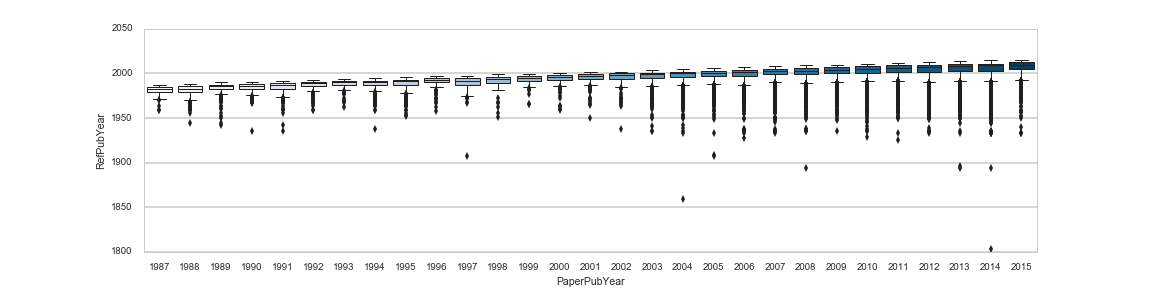
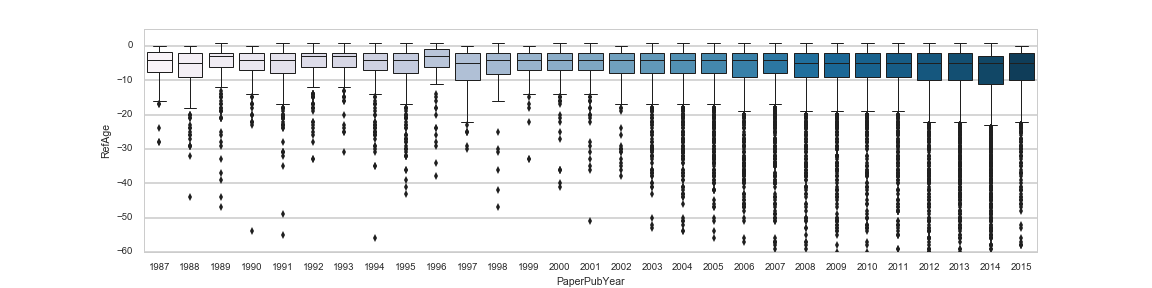
modify detailed post, added mini legends

diff --git a/content/citation/ICML.md b/content/citation/ICML.md
@@ -1,7 +1,7 @@
 ---
-title: "ICML - International Conference on Machine Learning (1987 - 2015)"
+title: "ICML - International Conference on Machine Learning (1987-2015)"
 description: "Citation pattern stats and plots for this conference."
-date: "2016-06-17 11:50:09.072500"
+date: "2016-07-14 21:18:51.156710"
 categories:
   - "data"
   - "visualization"
@@ -11,7 +11,9 @@ tags:
   - "graph"
 ---
 
-<img style="float:left;" src="/img/citation/ICML/ICML_mini_graph.png" height="160" hspace="15" vspace="10" alt="ICML: summary of top 37 venues">
+<div style="float:left; position: relative; width:320px; height:200px">  <a href=#fig4><img style="float:left;" src="/img/citation/ICML/ICML_mini_graph.png" width="320" style="position: relative; top: 0; left: 0;" alt="ICML: summary of top 37 venues"></a>
+  <img src="/img/citation/mini_bar.png" style="position: absolute; top: 160px; left: 30px;"/>
+</div>
 ### Stats:
 
 * 29 years of publication 1987--2015, 4082 papers total
@@ -22,41 +24,43 @@ tags:
  
 
 
-The half-wheel on the left is a snapshot of the top venues that cites and cited by this venue (details in Figure 4 below).
+This is a detail page for one conferenece, go here for [an overview of citation patterns](/post/citation_vis). 
 
-The plots on the rest of this page roughly breaks down into three types. 
+The half-wheel on the left is a snapshot of the top venues that cites and cited by this venue (details in Figure 4 below). The plots on the rest of this page roughly breaks down into four types. 
 
 * Figure 1 - Figure 3 contains basic stats of papers, references and citations over its lifetime. 
 * Figure 4 and 5 summarizes the incoming and outgoing citations over all years, sorted by the ratio of incoming over outgoing citations (left to right).
 * Figure 5 and 6 breaks down the incoming and outgoing citations by year of the conference paper. 
 * Figure 7 and 8 breaks down the outgoing references by the year they were cited in this conference. For most conferences we can see a 'google scholar' effect that more older papers gets cited in recent years, likely due to the ease of finding them. 
+
+**Note**: This page visualizes reference and citation patterns of one conference, generated from templates. For a written overview of the visualization series, and background about problem, motivation and methods please see the [overview page](/post/citation_vis). 
 ### Plots of citation data
-<a href=/img/citation/ICML/ICML_cnt_paper.png><img width=900 src="/img/citation/ICML/ICML_cnt_paper.png"></a>
+<a id=fig1 href=/img/citation/ICML/ICML_cnt_paper.png><img width=900 src="/img/citation/ICML/ICML_cnt_paper.png"></a>
 Fig 1. Overall paper stats. (left) number of papers published in each year; (right) the average number of references made and the average number of citations received for papers published in each year.
 
-<a href=/img/citation/ICML/ICML_cnt_ref.png><img width=900 src="/img/citation/ICML/ICML_cnt_ref.png"></a>
+<a id=fig2 href=/img/citation/ICML/ICML_cnt_ref.png><img width=900 src="/img/citation/ICML/ICML_cnt_ref.png"></a>
 Fig 2. Overall reference stats. (left) the number of total references made by papers published in each year, broken down by known and unkonwn venues; (right) the number of distinct venues referenced by papers published in each year.
 
-<a href=/img/citation/ICML/ICML_cnt_citation.png><img width=900 src="/img/citation/ICML/ICML_cnt_citation.png"></a>
+<a id=fig3 href=/img/citation/ICML/ICML_cnt_citation.png><img width=900 src="/img/citation/ICML/ICML_cnt_citation.png"></a>
 Fig 3. Overall citation stats. (left) the number of total references made by papers published in each year, broken down by known and unkonwn venues; (right) the number of distinct venues referenced by papers published in each year.
 
-<a href=/img/citation/ICML/ICML_graph.png><img width=900 src="/img/citation/ICML/ICML_graph.png"></a>
+<a id=fig4 href=/img/citation/ICML/ICML_graph.png><img width=900 src="/img/citation/ICML/ICML_graph.png"></a>
 <img align=center width=675 src="/img/citation/color_bar.png">
 
 Fig 4. Summary of incoming vs outgoing citations to the top-K venues. Node colors: ratio of citations (outgoing ideas, red) vs references (incoming ideas, blue). Node sizes: amount of total citation+references in either direction. Thickness of blue edges are scaled by the number of references going to a given venue; thickness of red edges are scaled by the number of citations coming from a given venue. Nodes are sorted left-to-right by the ratio of incoming vs outgoing citations to this conference.
 
-<a href=/img/citation/ICML/ICML_venue_bar.png><img width=900 src="/img/citation/ICML/ICML_venue_bar.png"></a>
+<a id=fig5 href=/img/citation/ICML/ICML_venue_bar.png><img width=900 src="/img/citation/ICML/ICML_venue_bar.png"></a>
 Fig 5. Incoming vs outgoing citations to the top-K venues (this bar graph presents information from the half-circle differently). (blue) The number of references going to a given conference or journal; (red) The number of citations coming from a given conference or journal. The x-axis is sorted by the ratio of incoming vs outgoing citations to the conference, highest on the right.
 
-<a href=/img/citation/ICML/ICML_venue_ref.png><img width=900 src="/img/citation/ICML/ICML_venue_ref.png"></a>
+<a id=fig6 href=/img/citation/ICML/ICML_venue_ref.png><img width=900 src="/img/citation/ICML/ICML_venue_ref.png"></a>
 Fig 6. Heatmap of references over time, broken down by publication year (horizontal axis) and reference venue (vertical axis).
 
-<a href=/img/citation/ICML/ICML_venue_citation.png><img width=900 src="/img/citation/ICML/ICML_venue_citation.png"></a>
+<a id=fig7 href=/img/citation/ICML/ICML_venue_citation.png><img width=900 src="/img/citation/ICML/ICML_venue_citation.png"></a>
 Fig 7. Heatmap of citations over time, broken down by publication year (horizontal axis) and citing venue (vertical axis).
 
-<a href=/img/citation/ICML/ICML_box_ref.png><img width=900 src="/img/citation/ICML/ICML_box_ref.png"></a>
-Fig 8. Box plot of reference publication years, grouped by broken down by the year paper in this venue is published (x-axis).
+<a id=fig8 href=/img/citation/ICML/ICML_box_ref.png><img width=900 src="/img/citation/ICML/ICML_box_ref.png"></a>
+Fig 8. Box plot of reference age in years (y-axis, lower is older), broken down by the year paper in this venue is published (x-axis).
 
-<a href=/img/citation/ICML/ICML_year_ref.png><img width=900 src="/img/citation/ICML/ICML_year_ref.png"></a>
+<a id=fig9 href=/img/citation/ICML/ICML_year_ref.png><img width=900 src="/img/citation/ICML/ICML_year_ref.png"></a>
 Fig 9. Heatmap of references, broken down by the year paper in this venue is published (horizontal axis) and by the publication year of the reference (vertical axis).
 

diff --git a/content/citation/NIPS.md b/content/citation/NIPS.md
@@ -1,7 +1,7 @@
 ---
-title: "NIPS - Neural Information Processing Systems (1987 - 2015)"
+title: "NIPS - Neural Information Processing Systems (1987-2015)"
 description: "Citation pattern stats and plots for this conference."
-date: "2016-06-17 11:50:35.930236"
+date: "2016-07-14 21:17:42.704124"
 categories:
   - "data"
   - "visualization"
@@ -11,7 +11,9 @@ tags:
   - "graph"
 ---
 
-<img style="float:left;" src="/img/citation/NIPS/NIPS_mini_graph.png" height="160" hspace="15" vspace="10" alt="NIPS: summary of top 37 venues">
+<div style="float:left; position: relative; width:320px; height:200px">  <a href=#fig4><img style="float:left;" src="/img/citation/NIPS/NIPS_mini_graph.png" width="320" style="position: relative; top: 0; left: 0;" alt="NIPS: summary of top 37 venues"></a>
+  <img src="/img/citation/mini_bar.png" style="position: absolute; top: 160px; left: 30px;"/>
+</div>
 ### Stats:
 
 * 29 years of publication 1987--2015, 6483 papers total
@@ -22,41 +24,43 @@ tags:
  
 
 
-The half-wheel on the left is a snapshot of the top venues that cites and cited by this venue (details in Figure 4 below).
+This is a detail page for one conferenece, go here for [an overview of citation patterns](/post/citation_vis). 
 
-The plots on the rest of this page roughly breaks down into three types. 
+The half-wheel on the left is a snapshot of the top venues that cites and cited by this venue (details in Figure 4 below). The plots on the rest of this page roughly breaks down into four types. 
 
 * Figure 1 - Figure 3 contains basic stats of papers, references and citations over its lifetime. 
 * Figure 4 and 5 summarizes the incoming and outgoing citations over all years, sorted by the ratio of incoming over outgoing citations (left to right).
 * Figure 5 and 6 breaks down the incoming and outgoing citations by year of the conference paper. 
 * Figure 7 and 8 breaks down the outgoing references by the year they were cited in this conference. For most conferences we can see a 'google scholar' effect that more older papers gets cited in recent years, likely due to the ease of finding them. 
+
+**Note**: This page visualizes reference and citation patterns of one conference, generated from templates. For a written overview of the visualization series, and background about problem, motivation and methods please see the [overview page](/post/citation_vis). 
 ### Plots of citation data
-<a href=/img/citation/NIPS/NIPS_cnt_paper.png><img width=900 src="/img/citation/NIPS/NIPS_cnt_paper.png"></a>
+<a id=fig1 href=/img/citation/NIPS/NIPS_cnt_paper.png><img width=900 src="/img/citation/NIPS/NIPS_cnt_paper.png"></a>
 Fig 1. Overall paper stats. (left) number of papers published in each year; (right) the average number of references made and the average number of citations received for papers published in each year.
 
-<a href=/img/citation/NIPS/NIPS_cnt_ref.png><img width=900 src="/img/citation/NIPS/NIPS_cnt_ref.png"></a>
+<a id=fig2 href=/img/citation/NIPS/NIPS_cnt_ref.png><img width=900 src="/img/citation/NIPS/NIPS_cnt_ref.png"></a>
 Fig 2. Overall reference stats. (left) the number of total references made by papers published in each year, broken down by known and unkonwn venues; (right) the number of distinct venues referenced by papers published in each year.
 
-<a href=/img/citation/NIPS/NIPS_cnt_citation.png><img width=900 src="/img/citation/NIPS/NIPS_cnt_citation.png"></a>
+<a id=fig3 href=/img/citation/NIPS/NIPS_cnt_citation.png><img width=900 src="/img/citation/NIPS/NIPS_cnt_citation.png"></a>
 Fig 3. Overall citation stats. (left) the number of total references made by papers published in each year, broken down by known and unkonwn venues; (right) the number of distinct venues referenced by papers published in each year.
 
-<a href=/img/citation/NIPS/NIPS_graph.png><img width=900 src="/img/citation/NIPS/NIPS_graph.png"></a>
+<a id=fig4 href=/img/citation/NIPS/NIPS_graph.png><img width=900 src="/img/citation/NIPS/NIPS_graph.png"></a>
 <img align=center width=675 src="/img/citation/color_bar.png">
 
 Fig 4. Summary of incoming vs outgoing citations to the top-K venues. Node colors: ratio of citations (outgoing ideas, red) vs references (incoming ideas, blue). Node sizes: amount of total citation+references in either direction. Thickness of blue edges are scaled by the number of references going to a given venue; thickness of red edges are scaled by the number of citations coming from a given venue. Nodes are sorted left-to-right by the ratio of incoming vs outgoing citations to this conference.
 
-<a href=/img/citation/NIPS/NIPS_venue_bar.png><img width=900 src="/img/citation/NIPS/NIPS_venue_bar.png"></a>
+<a id=fig5 href=/img/citation/NIPS/NIPS_venue_bar.png><img width=900 src="/img/citation/NIPS/NIPS_venue_bar.png"></a>
 Fig 5. Incoming vs outgoing citations to the top-K venues (this bar graph presents information from the half-circle differently). (blue) The number of references going to a given conference or journal; (red) The number of citations coming from a given conference or journal. The x-axis is sorted by the ratio of incoming vs outgoing citations to the conference, highest on the right.
 
-<a href=/img/citation/NIPS/NIPS_venue_ref.png><img width=900 src="/img/citation/NIPS/NIPS_venue_ref.png"></a>
+<a id=fig6 href=/img/citation/NIPS/NIPS_venue_ref.png><img width=900 src="/img/citation/NIPS/NIPS_venue_ref.png"></a>
 Fig 6. Heatmap of references over time, broken down by publication year (horizontal axis) and reference venue (vertical axis).
 
-<a href=/img/citation/NIPS/NIPS_venue_citation.png><img width=900 src="/img/citation/NIPS/NIPS_venue_citation.png"></a>
+<a id=fig7 href=/img/citation/NIPS/NIPS_venue_citation.png><img width=900 src="/img/citation/NIPS/NIPS_venue_citation.png"></a>
 Fig 7. Heatmap of citations over time, broken down by publication year (horizontal axis) and citing venue (vertical axis).
 
-<a href=/img/citation/NIPS/NIPS_box_ref.png><img width=900 src="/img/citation/NIPS/NIPS_box_ref.png"></a>
-Fig 8. Box plot of reference publication years, grouped by broken down by the year paper in this venue is published (x-axis).
+<a id=fig8 href=/img/citation/NIPS/NIPS_box_ref.png><img width=900 src="/img/citation/NIPS/NIPS_box_ref.png"></a>
+Fig 8. Box plot of reference age in years (y-axis, lower is older), broken down by the year paper in this venue is published (x-axis).
 
-<a href=/img/citation/NIPS/NIPS_year_ref.png><img width=900 src="/img/citation/NIPS/NIPS_year_ref.png"></a>
+<a id=fig9 href=/img/citation/NIPS/NIPS_year_ref.png><img width=900 src="/img/citation/NIPS/NIPS_year_ref.png"></a>
 Fig 9. Heatmap of references, broken down by the year paper in this venue is published (horizontal axis) and by the publication year of the reference (vertical axis).
 

diff --git a/content/citation/ICAPS.md b/content/citation/ICAPS.md
@@ -11,7 +11,12 @@ tags:
   - "graph"
 ---
 
-<img style="float:left;" src="/img/citation/ICAPS/ICAPS_mini_graph.png" height="160" hspace="15" vspace="10" alt="ICAPS: summary of top 39 venues">
+<div style="float:left; position: relative; width:320px; height:200px">
+  <a href=#fig4><img src="/img/citation/ICAPS/ICAPS_mini_graph.png" style="position: relative; top: 0; left: 0;" width="320"/></a>
+  <img src="/img/citation/mini_bar.png" style="position: absolute; top: 160px; left: 30px;"/>
+</div>
+
+
 ### Stats:
 
 * 12 years of publication 2003--2014, 273 papers total
@@ -19,7 +24,6 @@ tags:
 	* 252 reference venues, 82.0% in top 25 
 * 1248 citations total, average 4.57 per paper
 	* 171 citations venues, 83.0% in top 25 
- 
 
 
 
@@ -38,7 +42,7 @@ Fig 1. Overall paper stats. (left) number of papers published in each year; (rig
 <a href=/img/citation/ICAPS/ICAPS_cnt_ref.png><img width=900 src="/img/citation/ICAPS/ICAPS_cnt_ref.png"></a>
 Fig 2. Overall reference stats. (left) the number of total references made by papers published in each year, broken down by known and unkonwn venues; (right) the number of distinct venues referenced by papers published in each year.
 
-<a href=/img/citation/ICAPS/ICAPS_cnt_citation.png><img width=900 src="/img/citation/ICAPS/ICAPS_cnt_citation.png"></a>
+<a id=fig4 href=/img/citation/ICAPS/ICAPS_cnt_citation.png><img width=900 src="/img/citation/ICAPS/ICAPS_cnt_citation.png"></a>
 Fig 3. Overall citation stats. (left) the number of total references made by papers published in each year, broken down by known and unkonwn venues; (right) the number of distinct venues referenced by papers published in each year.
 
 <a href=/img/citation/ICAPS/ICAPS_graph.png><img width=900 src="/img/citation/ICAPS/ICAPS_graph.png"></a>

diff --git a/content/citation/NAACL.md b/content/citation/NAACL.md
@@ -1,7 +1,7 @@
 ---
 title: "NAACL - North American Chapter of the Association for Computational Linguistics (1991-2015)"
 description: "Citation pattern stats and plots for this conference."
-date: "2016-06-24 13:24:23.626205"
+date: "2016-07-14 21:20:15.756266"
 categories:
   - "data"
   - "visualization"
@@ -11,7 +11,9 @@ tags:
   - "graph"
 ---
 
-<img style="float:left;" src="/img/citation/NAACL/NAACL_mini_graph.png" height="160" hspace="15" vspace="10" alt="NAACL: summary of top 33 venues">
+<div style="float:left; position: relative; width:320px; height:200px">  <a href=#fig4><img style="float:left;" src="/img/citation/NAACL/NAACL_mini_graph.png" width="320" style="position: relative; top: 0; left: 0;" alt="NAACL: summary of top 33 venues"></a>
+  <img src="/img/citation/mini_bar.png" style="position: absolute; top: 160px; left: 30px;"/>
+</div>
 ### Overall stats:
 
 * 17 years of publication 1991--2015, 2159 papers total
@@ -22,6 +24,7 @@ tags:
  
 
 
+This is a detail page for one conferenece, go here for [an overview of citation patterns](/post/citation_vis). 
 
 The half-wheel on the left is a snapshot of the top venues that cites and cited by this venue (details in Figure 4 below). The plots on the rest of this page roughly breaks down into four types. 
 

diff --git a/content/post/citation_vis.md b/content/post/citation_vis.md
@@ -21,6 +21,8 @@ This paper contain a series of visualizations on the citation records made by, a
 <a href=/citation/WSDM><img width=260 src="/img/citation/WSDM/WSDM_mini_graph.png"></a>
 
 <!--more-->
+<img width=257 src="/img/citation/mini_bar.png">
+
 The colored half-wheels above summarizes the overall amount of citation between a conference in question (gray node in the center) and the top 25 other conferences or journals that cites or are cited by this venue. The thickness of the edges denote the amount of citations in either direction; the blue edges denote references, or incoming information flow for this conference; the red edges denote citations, or outgoing infomration flow. The node colors are shaded and sorted by the ratio of incoming vs outgoing information flow -- the node corresponding to the conference itself is white, due to equal in/out citations and with usually thick edges. 
 
 Left to right above: NIPS in machine learning, PLDI on programming language design and implementation, and WSDM on web search and data mining. Click on individual conferences above or below for details. 

diff --git a/static/img/citation/fig_summary.md b/static/img/citation/fig_summary.md
@@ -1,4 +1,5 @@
 
+This is a detail page for one conferenece, go here for [an overview of citation patterns](/post/citation_vis). 
 
 The half-wheel on the left is a snapshot of the top venues that cites and cited by this venue (details in Figure 4 below). The plots on the rest of this page roughly breaks down into four types. 
 
